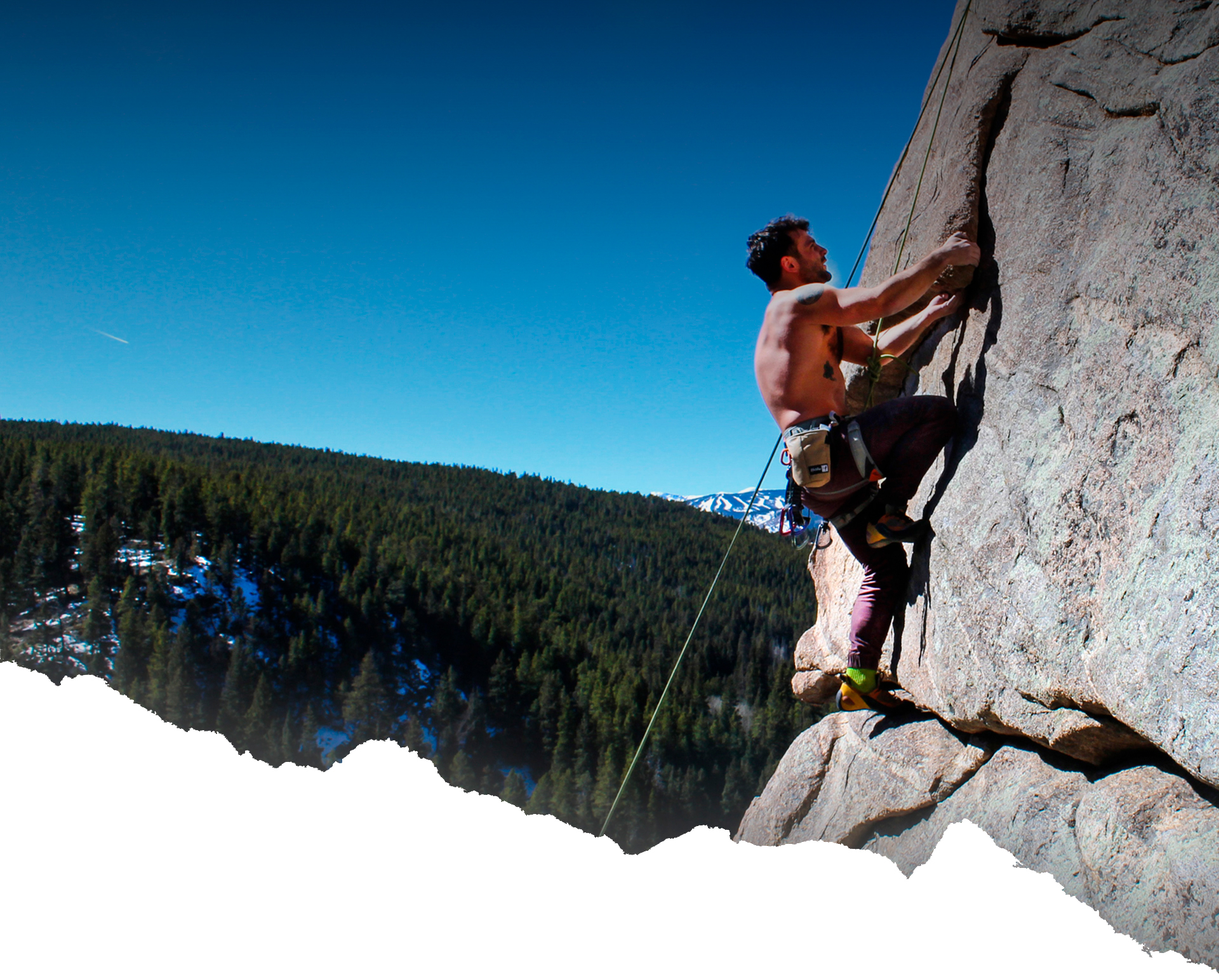
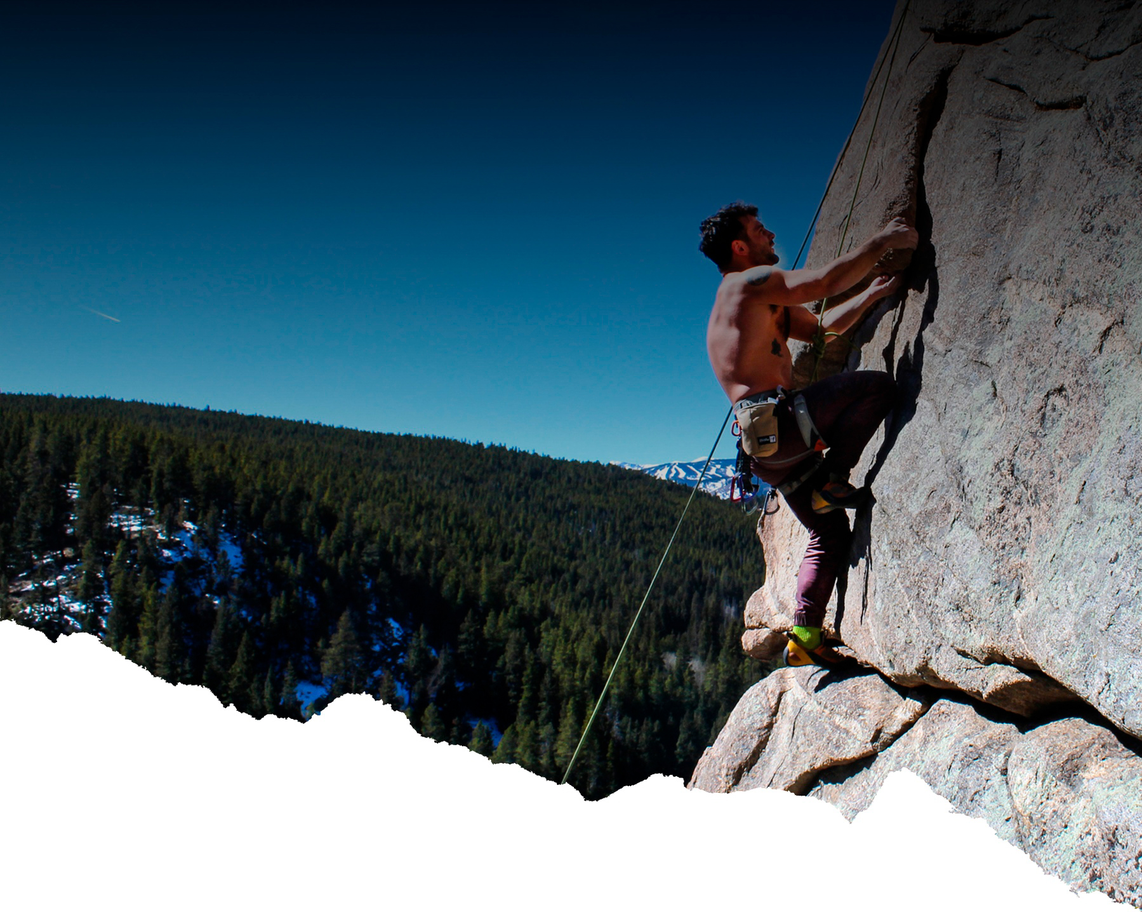
add two sction in project mount

diff --git a/mount/app/css/style.min.css b/mount/app/css/style.min.css
@@ -1,1 +1,1 @@
-/*! normalize.css v8.0.1 | MIT License | github.com/necolas/normalize.css */html{line-height:1.15;-webkit-text-size-adjust:100%}body{margin:0}main{display:block}h1{font-size:2em;margin:0.67em 0}hr{-webkit-box-sizing:content-box;box-sizing:content-box;height:0;overflow:visible}pre{font-family:monospace, monospace;font-size:1em}a{background-color:transparent}abbr[title]{border-bottom:none;text-decoration:underline;-webkit-text-decoration:underline dotted;text-decoration:underline dotted}b,strong{font-weight:bolder}code,kbd,samp{font-family:monospace, monospace;font-size:1em}small{font-size:80%}sub,sup{font-size:75%;line-height:0;position:relative;vertical-align:baseline}sub{bottom:-0.25em}sup{top:-0.5em}img{border-style:none}button,input,optgroup,select,textarea{font-family:inherit;font-size:100%;line-height:1.15;margin:0}button,input{overflow:visible}button,select{text-transform:none}button,[type="button"],[type="reset"],[type="submit"]{-webkit-appearance:button}button::-moz-focus-inner,[type="button"]::-moz-focus-inner,[type="reset"]::-moz-focus-inner,[type="submit"]::-moz-focus-inner{border-style:none;padding:0}button:-moz-focusring,[type="button"]:-moz-focusring,[type="reset"]:-moz-focusring,[type="submit"]:-moz-focusring{outline:1px dotted ButtonText}fieldset{padding:0.35em 0.75em 0.625em}legend{-webkit-box-sizing:border-box;box-sizing:border-box;color:inherit;display:table;max-width:100%;padding:0;white-space:normal}progress{vertical-align:baseline}textarea{overflow:auto}[type="checkbox"],[type="radio"]{-webkit-box-sizing:border-box;box-sizing:border-box;padding:0}[type="number"]::-webkit-inner-spin-button,[type="number"]::-webkit-outer-spin-button{height:auto}[type="search"]{-webkit-appearance:textfield;outline-offset:-2px}[type="search"]::-webkit-search-decoration{-webkit-appearance:none}::-webkit-file-upload-button{-webkit-appearance:button;font:inherit}details{display:block}summary{display:list-item}template{display:none}[hidden]{display:none}.slick-slider{position:relative;display:block;-webkit-box-sizing:border-box;box-sizing:border-box;-webkit-user-select:none;-moz-user-select:none;-ms-user-select:none;user-select:none;-webkit-touch-callout:none;-khtml-user-select:none;-ms-touch-action:pan-y;touch-action:pan-y;-webkit-tap-highlight-color:transparent}.slick-list{position:relative;display:block;overflow:hidden;margin:0;padding:0}.slick-list:focus{outline:none}.slick-list.dragging{cursor:pointer;cursor:hand}.slick-slider .slick-track,.slick-slider .slick-list{-webkit-transform:translate3d(0, 0, 0);-ms-transform:translate3d(0, 0, 0);transform:translate3d(0, 0, 0)}.slick-track{position:relative;top:0;left:0;display:block;margin-left:auto;margin-right:auto}.slick-track:before,.slick-track:after{display:table;content:''}.slick-track:after{clear:both}.slick-loading .slick-track{visibility:hidden}.slick-slide{display:none;float:left;height:100%;min-height:1px}[dir='rtl'] .slick-slide{float:right}.slick-slide img{display:block}.slick-slide.slick-loading img{display:none}.slick-slide.dragging img{pointer-events:none}.slick-initialized .slick-slide{display:block}.slick-loading .slick-slide{visibility:hidden}.slick-vertical .slick-slide{display:block;height:auto;border:1px solid transparent}.slick-arrow.slick-hidden{display:none}@font-face{font-family:"Gilroy";src:local("Gilroy Regular"),local("Gilroy-Regular"),url(../fonts/Gilroy-Regular.woff2) format("woff2"),url(../fonts/Gilroy-Regular.woff) format("woff"),url(../fonts/Gilroy-Regular.ttf) format("truetype");font-weight:400}@font-face{font-family:"PFDinTextCompPro";src:url(../fonts/PFDinTextCompPro-Medium_0.ttf)}html{-webkit-box-sizing:border-box;box-sizing:border-box}*,*::before,*::after{-webkit-box-sizing:inherit;box-sizing:inherit}body{font-family:"Gilroy";font-weight:400;color:#fff;min-width:320px;overflow-x:hidden}a{display:inline-block;text-decoration:none;color:#fff;outline:none}ul,li,button{list-style:none;margin:0;padding:0;outline:none}.container{max-width:1170px;margin:0 auto}.home__header{padding:0 60px;background-image:url(../images/home-bg.jpg);background-repeat:no-repeat;background-position:center;background-size:cover;display:-webkit-box;display:-ms-flexbox;display:flex;-webkit-box-pack:justify;-ms-flex-pack:justify;justify-content:space-between;line-height:37px;height:170px;-webkit-box-align:center;-ms-flex-align:center;align-items:center;font-family:"PFDinTextCompPro";position:relative}.home__header-menu{display:-webkit-box;display:-ms-flexbox;display:flex}.home__header-menu-icon li{height:10px;width:47px;background-color:#fff;border-radius:5px}.home__header-menu-icon li+li{margin-top:5px}.home-header__menu-text{margin-left:18px;font-size:44px;text-transform:uppercase}.home__header-logo{position:absolute;top:25px;left:50%;-webkit-transform:translateX(-50%);-ms-transform:translateX(-50%);transform:translateX(-50%)}.home__header-phone{font-size:43px;max-width:280px}.home__header-phone span{font-size:22px;font-family:"Gilroy";padding-left:20px;position:relative}.home__header-phone span::before{content:"";position:absolute;width:9px;height:9px;background-color:#2de314;border-radius:10px;top:50%;-webkit-transform:translateY(-50%);-ms-transform:translateY(-50%);transform:translateY(-50%);left:0}
+/*! normalize.css v8.0.1 | MIT License | github.com/necolas/normalize.css */html{line-height:1.15;-webkit-text-size-adjust:100%}body{margin:0}main{display:block}h1{font-size:2em;margin:0.67em 0}hr{-webkit-box-sizing:content-box;box-sizing:content-box;height:0;overflow:visible}pre{font-family:monospace, monospace;font-size:1em}a{background-color:transparent}abbr[title]{border-bottom:none;text-decoration:underline;-webkit-text-decoration:underline dotted;text-decoration:underline dotted}b,strong{font-weight:bolder}code,kbd,samp{font-family:monospace, monospace;font-size:1em}small{font-size:80%}sub,sup{font-size:75%;line-height:0;position:relative;vertical-align:baseline}sub{bottom:-0.25em}sup{top:-0.5em}img{border-style:none}button,input,optgroup,select,textarea{font-family:inherit;font-size:100%;line-height:1.15;margin:0}button,input{overflow:visible}button,select{text-transform:none}button,[type="button"],[type="reset"],[type="submit"]{-webkit-appearance:button}button::-moz-focus-inner,[type="button"]::-moz-focus-inner,[type="reset"]::-moz-focus-inner,[type="submit"]::-moz-focus-inner{border-style:none;padding:0}button:-moz-focusring,[type="button"]:-moz-focusring,[type="reset"]:-moz-focusring,[type="submit"]:-moz-focusring{outline:1px dotted ButtonText}fieldset{padding:0.35em 0.75em 0.625em}legend{-webkit-box-sizing:border-box;box-sizing:border-box;color:inherit;display:table;max-width:100%;padding:0;white-space:normal}progress{vertical-align:baseline}textarea{overflow:auto}[type="checkbox"],[type="radio"]{-webkit-box-sizing:border-box;box-sizing:border-box;padding:0}[type="number"]::-webkit-inner-spin-button,[type="number"]::-webkit-outer-spin-button{height:auto}[type="search"]{-webkit-appearance:textfield;outline-offset:-2px}[type="search"]::-webkit-search-decoration{-webkit-appearance:none}::-webkit-file-upload-button{-webkit-appearance:button;font:inherit}details{display:block}summary{display:list-item}template{display:none}[hidden]{display:none}.slick-slider{position:relative;display:block;-webkit-box-sizing:border-box;box-sizing:border-box;-webkit-user-select:none;-moz-user-select:none;-ms-user-select:none;user-select:none;-webkit-touch-callout:none;-khtml-user-select:none;-ms-touch-action:pan-y;touch-action:pan-y;-webkit-tap-highlight-color:transparent}.slick-list{position:relative;display:block;overflow:hidden;margin:0;padding:0}.slick-list:focus{outline:none}.slick-list.dragging{cursor:pointer;cursor:hand}.slick-slider .slick-track,.slick-slider .slick-list{-webkit-transform:translate3d(0, 0, 0);-ms-transform:translate3d(0, 0, 0);transform:translate3d(0, 0, 0)}.slick-track{position:relative;top:0;left:0;display:block;margin-left:auto;margin-right:auto}.slick-track:before,.slick-track:after{display:table;content:''}.slick-track:after{clear:both}.slick-loading .slick-track{visibility:hidden}.slick-slide{display:none;float:left;height:100%;min-height:1px}[dir='rtl'] .slick-slide{float:right}.slick-slide img{display:block}.slick-slide.slick-loading img{display:none}.slick-slide.dragging img{pointer-events:none}.slick-initialized .slick-slide{display:block}.slick-loading .slick-slide{visibility:hidden}.slick-vertical .slick-slide{display:block;height:auto;border:1px solid transparent}.slick-arrow.slick-hidden{display:none}@font-face{font-family:"Gilroy";src:local("Gilroy Regular"),local("Gilroy-Regular"),url(../fonts/Gilroy-Regular.woff2) format("woff2"),url(../fonts/Gilroy-Regular.woff) format("woff"),url(../fonts/Gilroy-Regular.ttf) format("truetype");font-weight:400}@font-face{font-family:"PFDinTextCompPro";src:url(../fonts/PFDinTextCompPro-Medium_0.ttf)}html{-webkit-box-sizing:border-box;box-sizing:border-box}*,*::before,*::after{-webkit-box-sizing:inherit;box-sizing:inherit}body{font-family:"Gilroy";font-weight:400;color:#fff;min-width:320px;overflow-x:hidden}a{display:inline-block;text-decoration:none;color:#fff;outline:none}ul,li,button{list-style:none;margin:0;padding:0;outline:none}.container{max-width:1170px;margin:0 auto}.home{background-image:url(../images/home-bg.jpg);background-repeat:no-repeat;background-position:top;background-size:cover}.home__header{padding:0 60px;display:-webkit-box;display:-ms-flexbox;display:flex;-webkit-box-pack:justify;-ms-flex-pack:justify;justify-content:space-between;line-height:37px;height:170px;-webkit-box-align:center;-ms-flex-align:center;align-items:center;font-family:"PFDinTextCompPro";position:relative}.home__header-menu{display:-webkit-box;display:-ms-flexbox;display:flex}.home__header-menu-icon li{height:10px;width:47px;background-color:#fff;border-radius:5px}.home__header-menu-icon li+li{margin-top:5px}.home-header__menu-text{margin-left:18px;font-size:44px;text-transform:uppercase}.home__header-logo{position:absolute;top:25px;left:50%;-webkit-transform:translateX(-50%);-ms-transform:translateX(-50%);transform:translateX(-50%)}.home__header-phone{font-size:43px;max-width:280px}.home__header-phone span{font-size:22px;font-family:"Gilroy";padding-left:20px;position:relative}.home__header-phone span::before{content:"";position:absolute;width:9px;height:9px;background-color:#2de314;border-radius:10px;top:50%;-webkit-transform:translateY(-50%);-ms-transform:translateY(-50%);transform:translateY(-50%);left:0}.home__content{font-family:"PFDinTextCompPro";text-transform:uppercase;padding:180px 0 960px 80px}.home__content-title{font-size:116px;line-height:50px;max-width:775px;margin-bottom:50px}.home__content-title span{font-size:37px;line-height:37px}.home__content-btn{color:#444648;background-image:url(../images/btn-bg.png);background-repeat:no-repeat;background-position:center;background-size:contain;font-size:35px;line-height:37px;padding:15px 0 0 40px;width:305px;height:83px;position:relative}.home__content-btn::before{content:"";background-image:url(../images/btn-arrows.svg);background-repeat:no-repeat;background-position:center;background-size:contain;position:absolute;width:121px;height:25px;left:50%;-webkit-transform:translateX(-50%);-ms-transform:translateX(-50%);transform:translateX(-50%);top:90px}.service{background-image:url(../images/service-bg.png);background-repeat:no-repeat;background-position:center bottom;background-size:contain}.service__item{display:-webkit-box;display:-ms-flexbox;display:flex;-webkit-box-align:center;-ms-flex-align:center;align-items:center}.service__item+.service__item{margin-top:10px}.service__item-content{max-width:525px;margin-left:60px}.service__item-title{font-family:"PFDinTextCompPro";color:#444648;font-size:51px;line-height:94px}.service__item-text{color:#717578;font-size:21px;line-height:24px}

diff --git a/mount/app/index.html b/mount/app/index.html
@@ -24,6 +24,45 @@
       <div class="home__header-logo"><img src="images/logo.png" alt=""></div>
       <div class="home__header-phone">+7 (911) 454-23-95<span> Работаем круглосуточно</span></div>
     </div>
+    <div class="home__content">
+      <div class="container">
+        <div class="home__content-title">Покоряй Вершины <span>в действительно надежной экипировке</span></div>
+        <div class="home__content-btn">Узнать подробнее</div>
+      </div>
+    </div>
+  </section>
+  <section class="service">
+    <div class="container">
+      <div class="service__box">
+        <div class="service__item">
+          <div class="service__item-img"><img src="images/service-item--1.png" alt=""></div>
+          <div class="service__item-content">
+            <div class="service__item-title">Топовое оборудование</div>
+            <div class="service__item-text">Профессиональные веревки, которые не дадут упасть и разбиться нахрен. Если
+              вы дурачок, то скорее всего не сможете лазить. Блин, нужно больше текста. Ладно, этого хватит, я думаю
+            </div>
+          </div>
+        </div>
+        <div class="service__item">
+          <div class="service__item-content">
+            <div class="service__item-title">Топовое оборудование</div>
+            <div class="service__item-text">Профессиональные веревки, которые не дадут упасть и разбиться нахрен. Если
+              вы дурачок, то скорее всего не сможете лазить. Блин, нужно больше текста. Ладно, этого хватит, я думаю
+            </div>
+          </div>
+          <div class="service__item-img"><img src="images/service-item--2.png" alt=""></div>
+        </div>
+        <div class="service__item">
+          <div class="service__item-img"><img src="images/service-item--3.png" alt=""></div>
+          <div class="service__item-content">
+            <div class="service__item-title">Топовое оборудование</div>
+            <div class="service__item-text">Профессиональные веревки, которые не дадут упасть и разбиться нахрен. Если
+              вы дурачок, то скорее всего не сможете лазить. Блин, нужно больше текста. Ладно, этого хватит, я думаю
+            </div>
+          </div>
+        </div>
+      </div>
+    </div>
   </section>
 
   <script src="https://ajax.googleapis.com/ajax/libs/jquery/3.4.1/jquery.min.js"></script>

diff --git a/mount/app/scss/style.scss b/mount/app/scss/style.scss
@@ -3,12 +3,14 @@
 @import "fonts";
 @import "global";
 
-.home__header {
-  padding: 0 60px;
+.home {
   background-image: url(../images/home-bg.jpg);
   background-repeat: no-repeat;
-  background-position: center;
+  background-position: top;
   background-size: cover;
+}
+.home__header {
+  padding: 0 60px;
   display: flex;
   justify-content: space-between;
   line-height: 37px;
@@ -62,6 +64,77 @@
       left: 0;
     }
   }
+}
+
+.home__content {
+  font-family: "PFDinTextCompPro";
+  text-transform: uppercase;
+  padding: 180px 0 960px 80px;
+}
+.home__content-title {
+  font-size: 116px;
+  line-height: 50px;
+  max-width: 775px;
+  margin-bottom: 50px;
+  span {
+    font-size: 37px;
+    line-height: 37px;
+  }
+}
+.home__content-btn {
+  color: #444648;
+  background-image: url(../images/btn-bg.png);
+  background-repeat: no-repeat;
+  background-position: center;
+  background-size: contain;
+  font-size: 35px;
+  line-height: 37px;
+  padding: 15px 0 0 40px;
+  width: 305px;
+  height: 83px;
+  position: relative;
+  &::before {
+    content: "";
+    background-image: url(../images/btn-arrows.svg);
+    background-repeat: no-repeat;
+    background-position: center;
+    background-size: contain;
+    position: absolute;
+    width: 121px;
+    height: 25px;
+    left: 50%;
+    transform: translateX(-50%);
+    top: 90px;
+  }
+}
+
+.service {
+  background-image: url(../images/service-bg.png);
+  background-repeat: no-repeat;
+  background-position: center bottom;
+  background-size: contain;
+}
+.service__item {
+  display: flex;
+  align-items: center;
+  & + .service__item {
+    margin-top: 10px;
+  }
+}
+.service__item-content {
+  max-width: 525px;
+  margin-left: 60px;
+}
+.service__item-title {
+  font-family: "PFDinTextCompPro";
+  color: #444648;
+  font-size: 51px;
+  line-height: 94px;
+}
+.service__item-text {
+  color: #717578;
+  font-size: 21px;
+  line-height: 24px;
 }
 
 @import "media";
